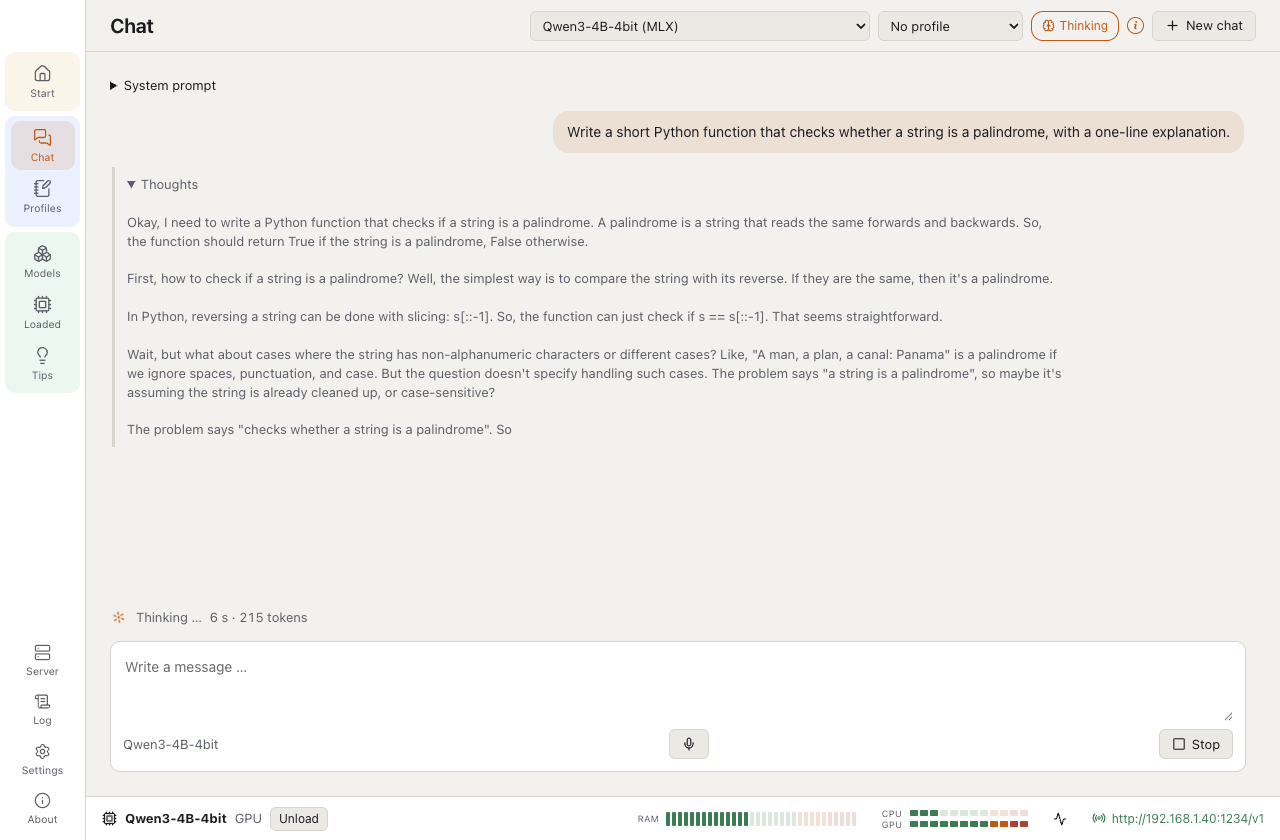
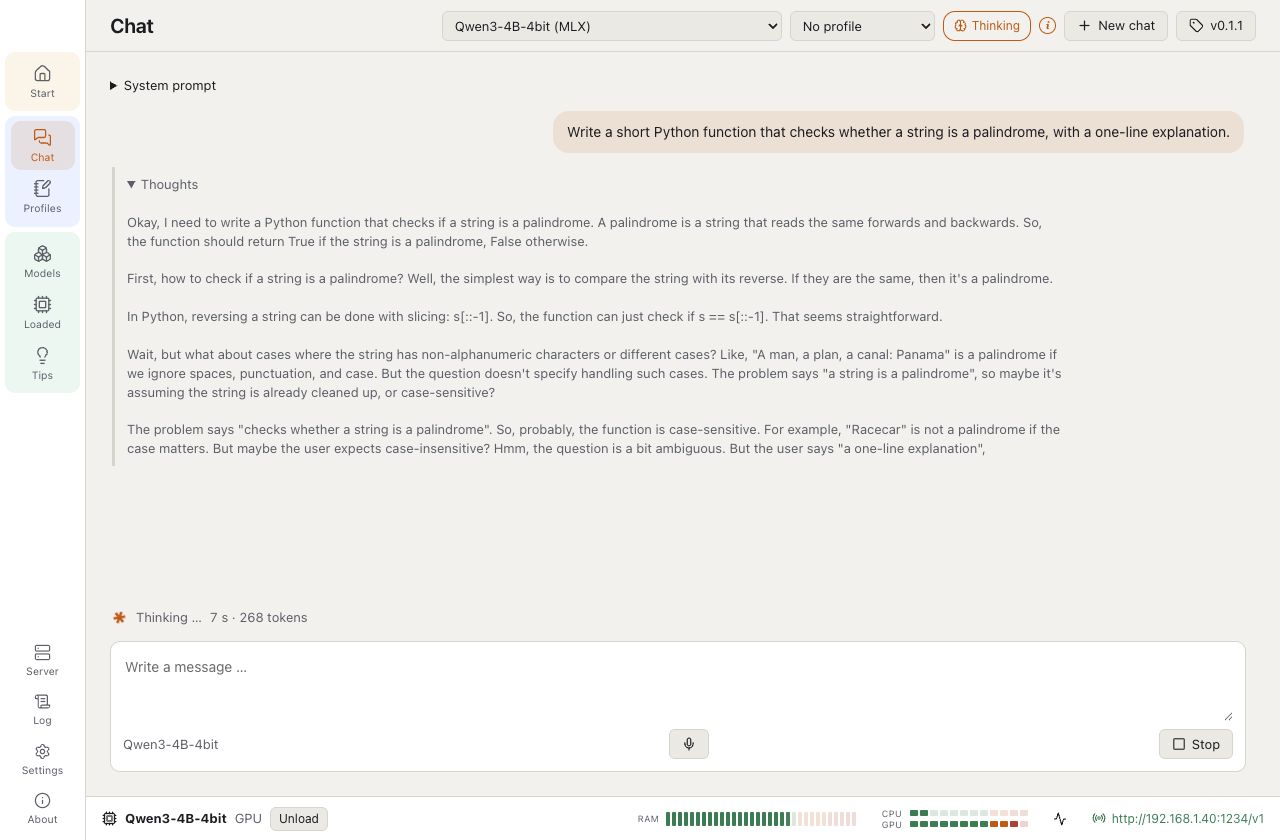
okAI-helper 0.1.1: changes and screenshots

diff --git a/CHANGELOG.md b/CHANGELOG.md
@@ -1,5 +1,22 @@
 # Changelog
 
+## 0.1.1 (2026-11-21)
+
+- Prompt cache per model (Settings, Hardware; 2 GB by default): llama.cpp keeps earlier prompts in memory, so going back
+  to another chat or program does not compute its start again (16 GB Mac mini, Ministral 8B, two chats of 5,500 tokens:
+  0.07 instead of 26 seconds). Before, llama.cpp kept up to 8 GB of them outside the memory plan, and a big model's
+  server could vanish without an error. Now the cache is counted in the plan and takes only the memory left beside the
+  model: it never pushes a model off the GPU, and it does not count against the GPU when several models are loaded.
+- The guard measured its starting point right after unloading a model, before macOS had given that memory back: after a
+  model switch its limit stood above the Mac's memory and it would not have stepped in. It now waits (at most five
+  seconds) until the memory is free.
+- The version in the header of every page, as in VulKara: it opens the About page; when a newer version is out it reads
+  "Update to …" and brings the update notice back, also after Later.
+- Settings: Appearance sits next to Memory.
+- Downloads show progress, speed and time left once a second, averaged, instead of with every piece of data.
+- uv 0.13.6 for installing the MLX runtimes: uv 0.12.23 trusted a compromised certificate authority (GHSA-hq85-5cpj-mr62).
+  The packages were and are checked against fixed checksums.
+
 ## 0.1.0 (2026-11-10)
 
 First version.
